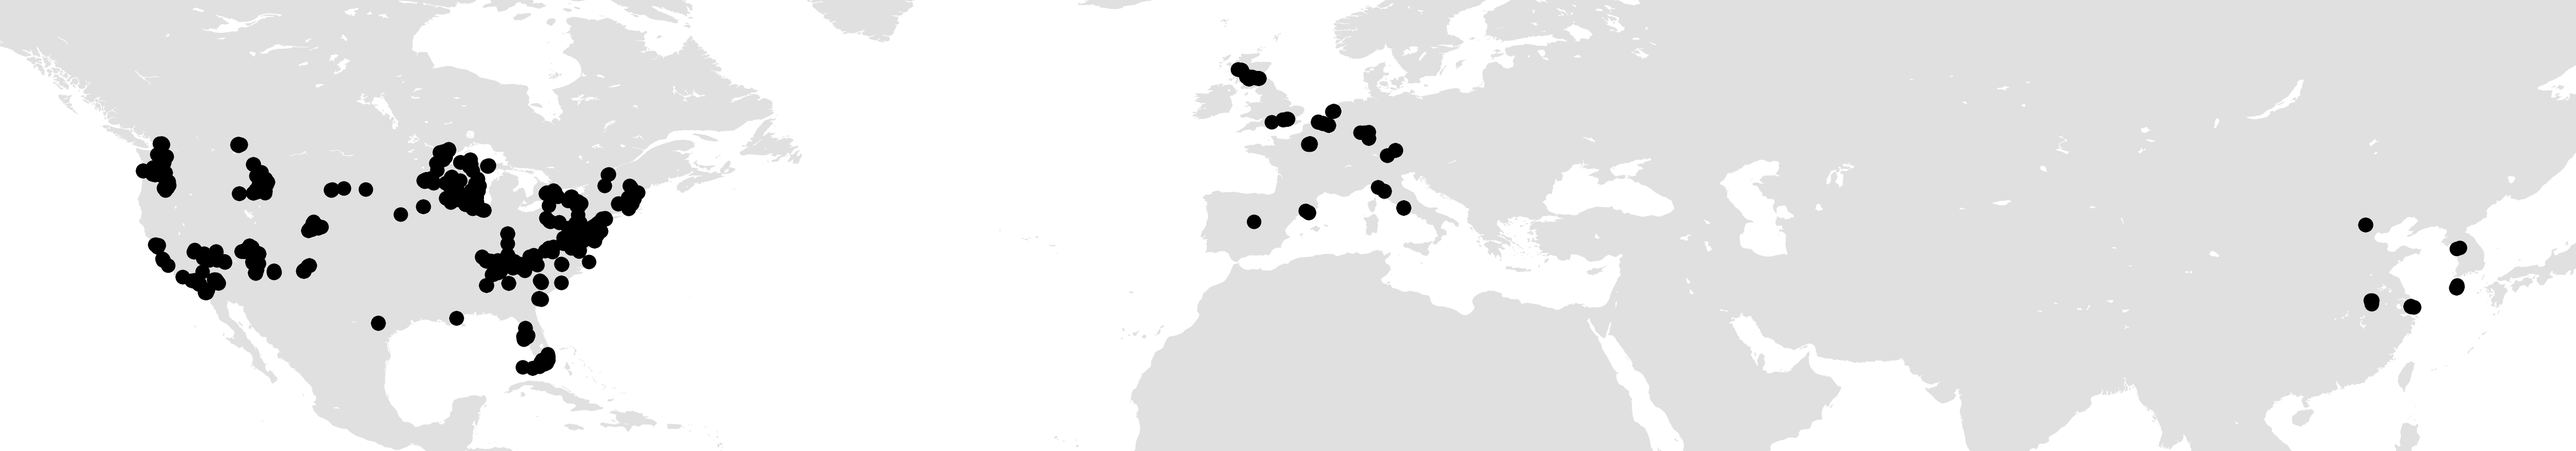
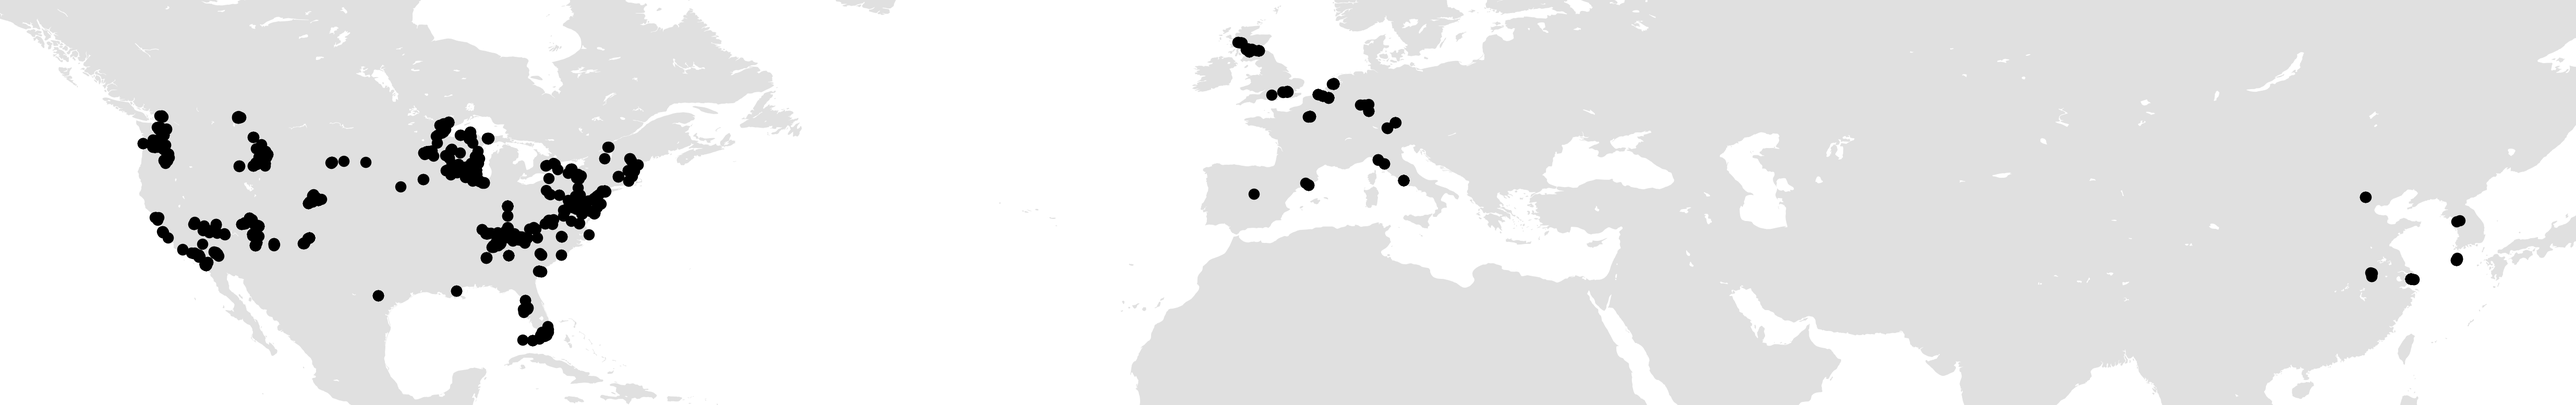
Smaller points

diff --git a/map/plot_cartopy.py b/map/plot_cartopy.py
@@ -14,8 +14,8 @@ with open("places.json") as f:
 
 lon_min = -140
 lon_max = 140
-lat_min = 15
-lat_max = 65
+lat_min = 17
+lat_max = 62
 
 ax = plt.subplot(projection = ccrs.PlateCarree())
 ax.add_feature(cf.NaturalEarthFeature('physical', 'land', '50m', edgecolor='none', facecolor='#e0e0e0'))
@@ -24,6 +24,6 @@ ax.set_extent([lon_min, lon_max, lat_min, lat_max], crs=ccrs.PlateCarree())
 
 
 # plot points as red dots
-ax.scatter(lon, lat, transform=ccrs.PlateCarree(), s=1, color='black',  zorder=2)
+ax.scatter(lon, lat, transform=ccrs.PlateCarree(), s=0.3, color='black',  zorder=2)
 
 plt.savefig("map.png", bbox_inches="tight", dpi=1000, pad_inches=-0.01)
